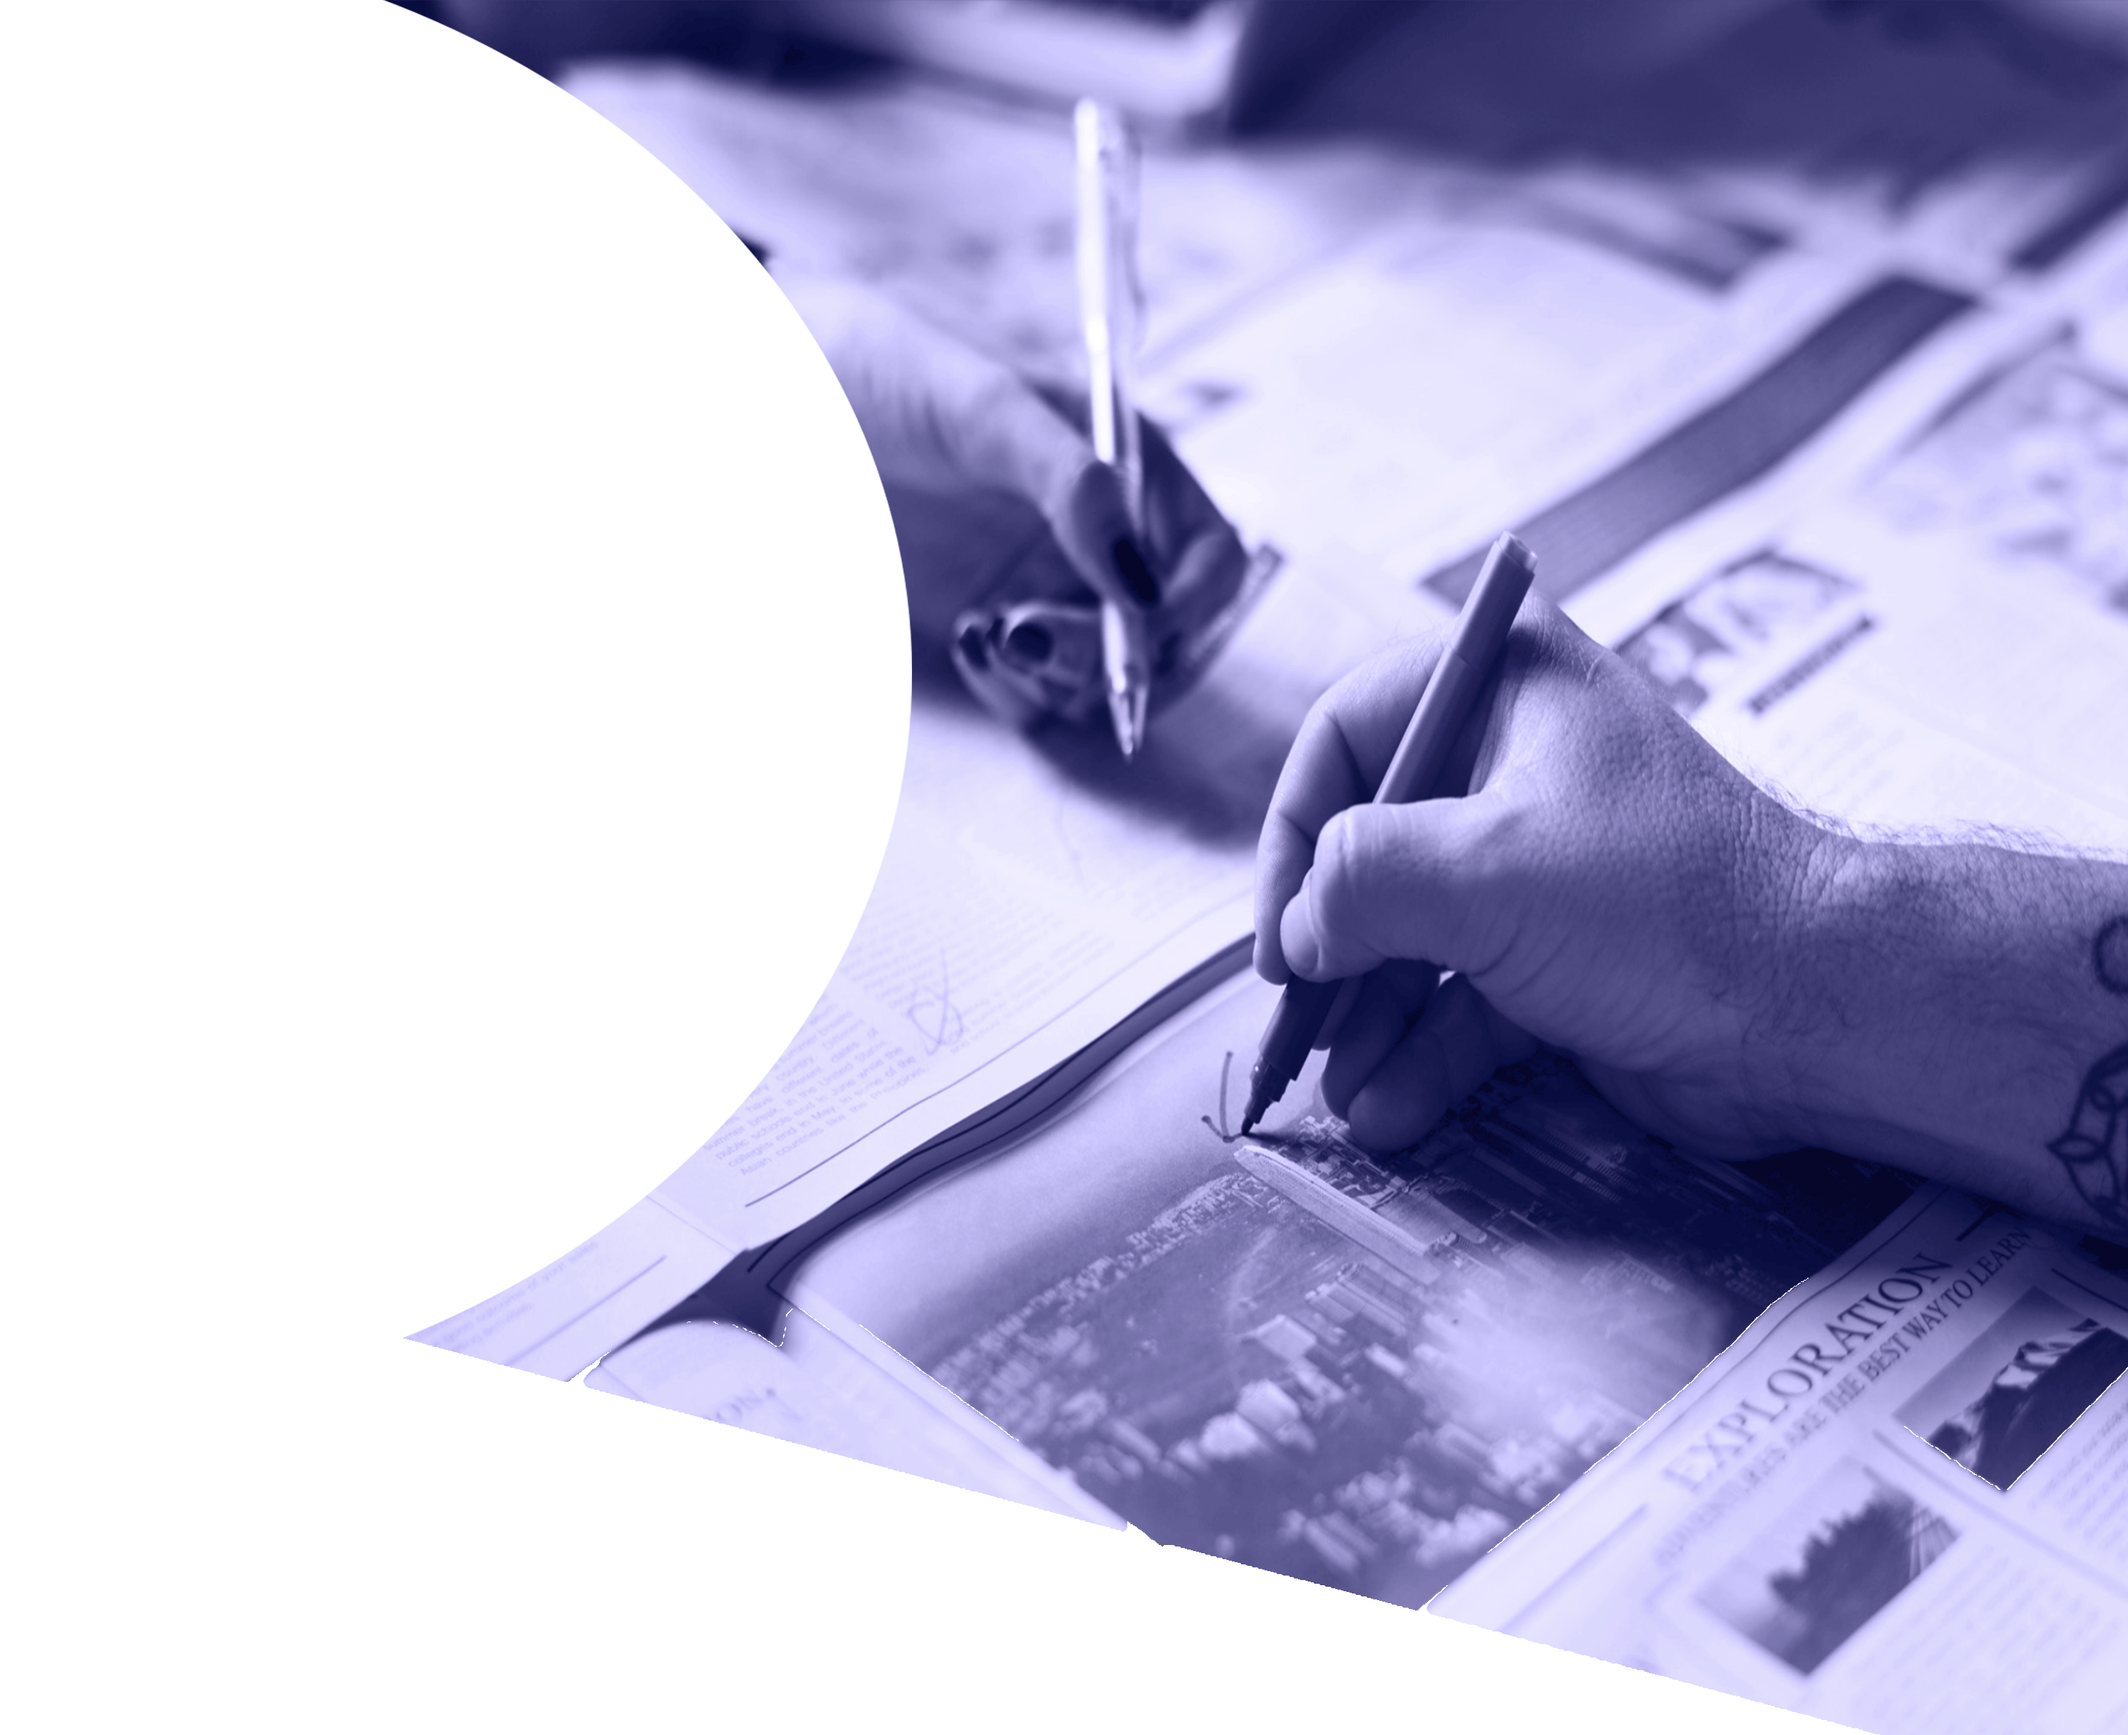
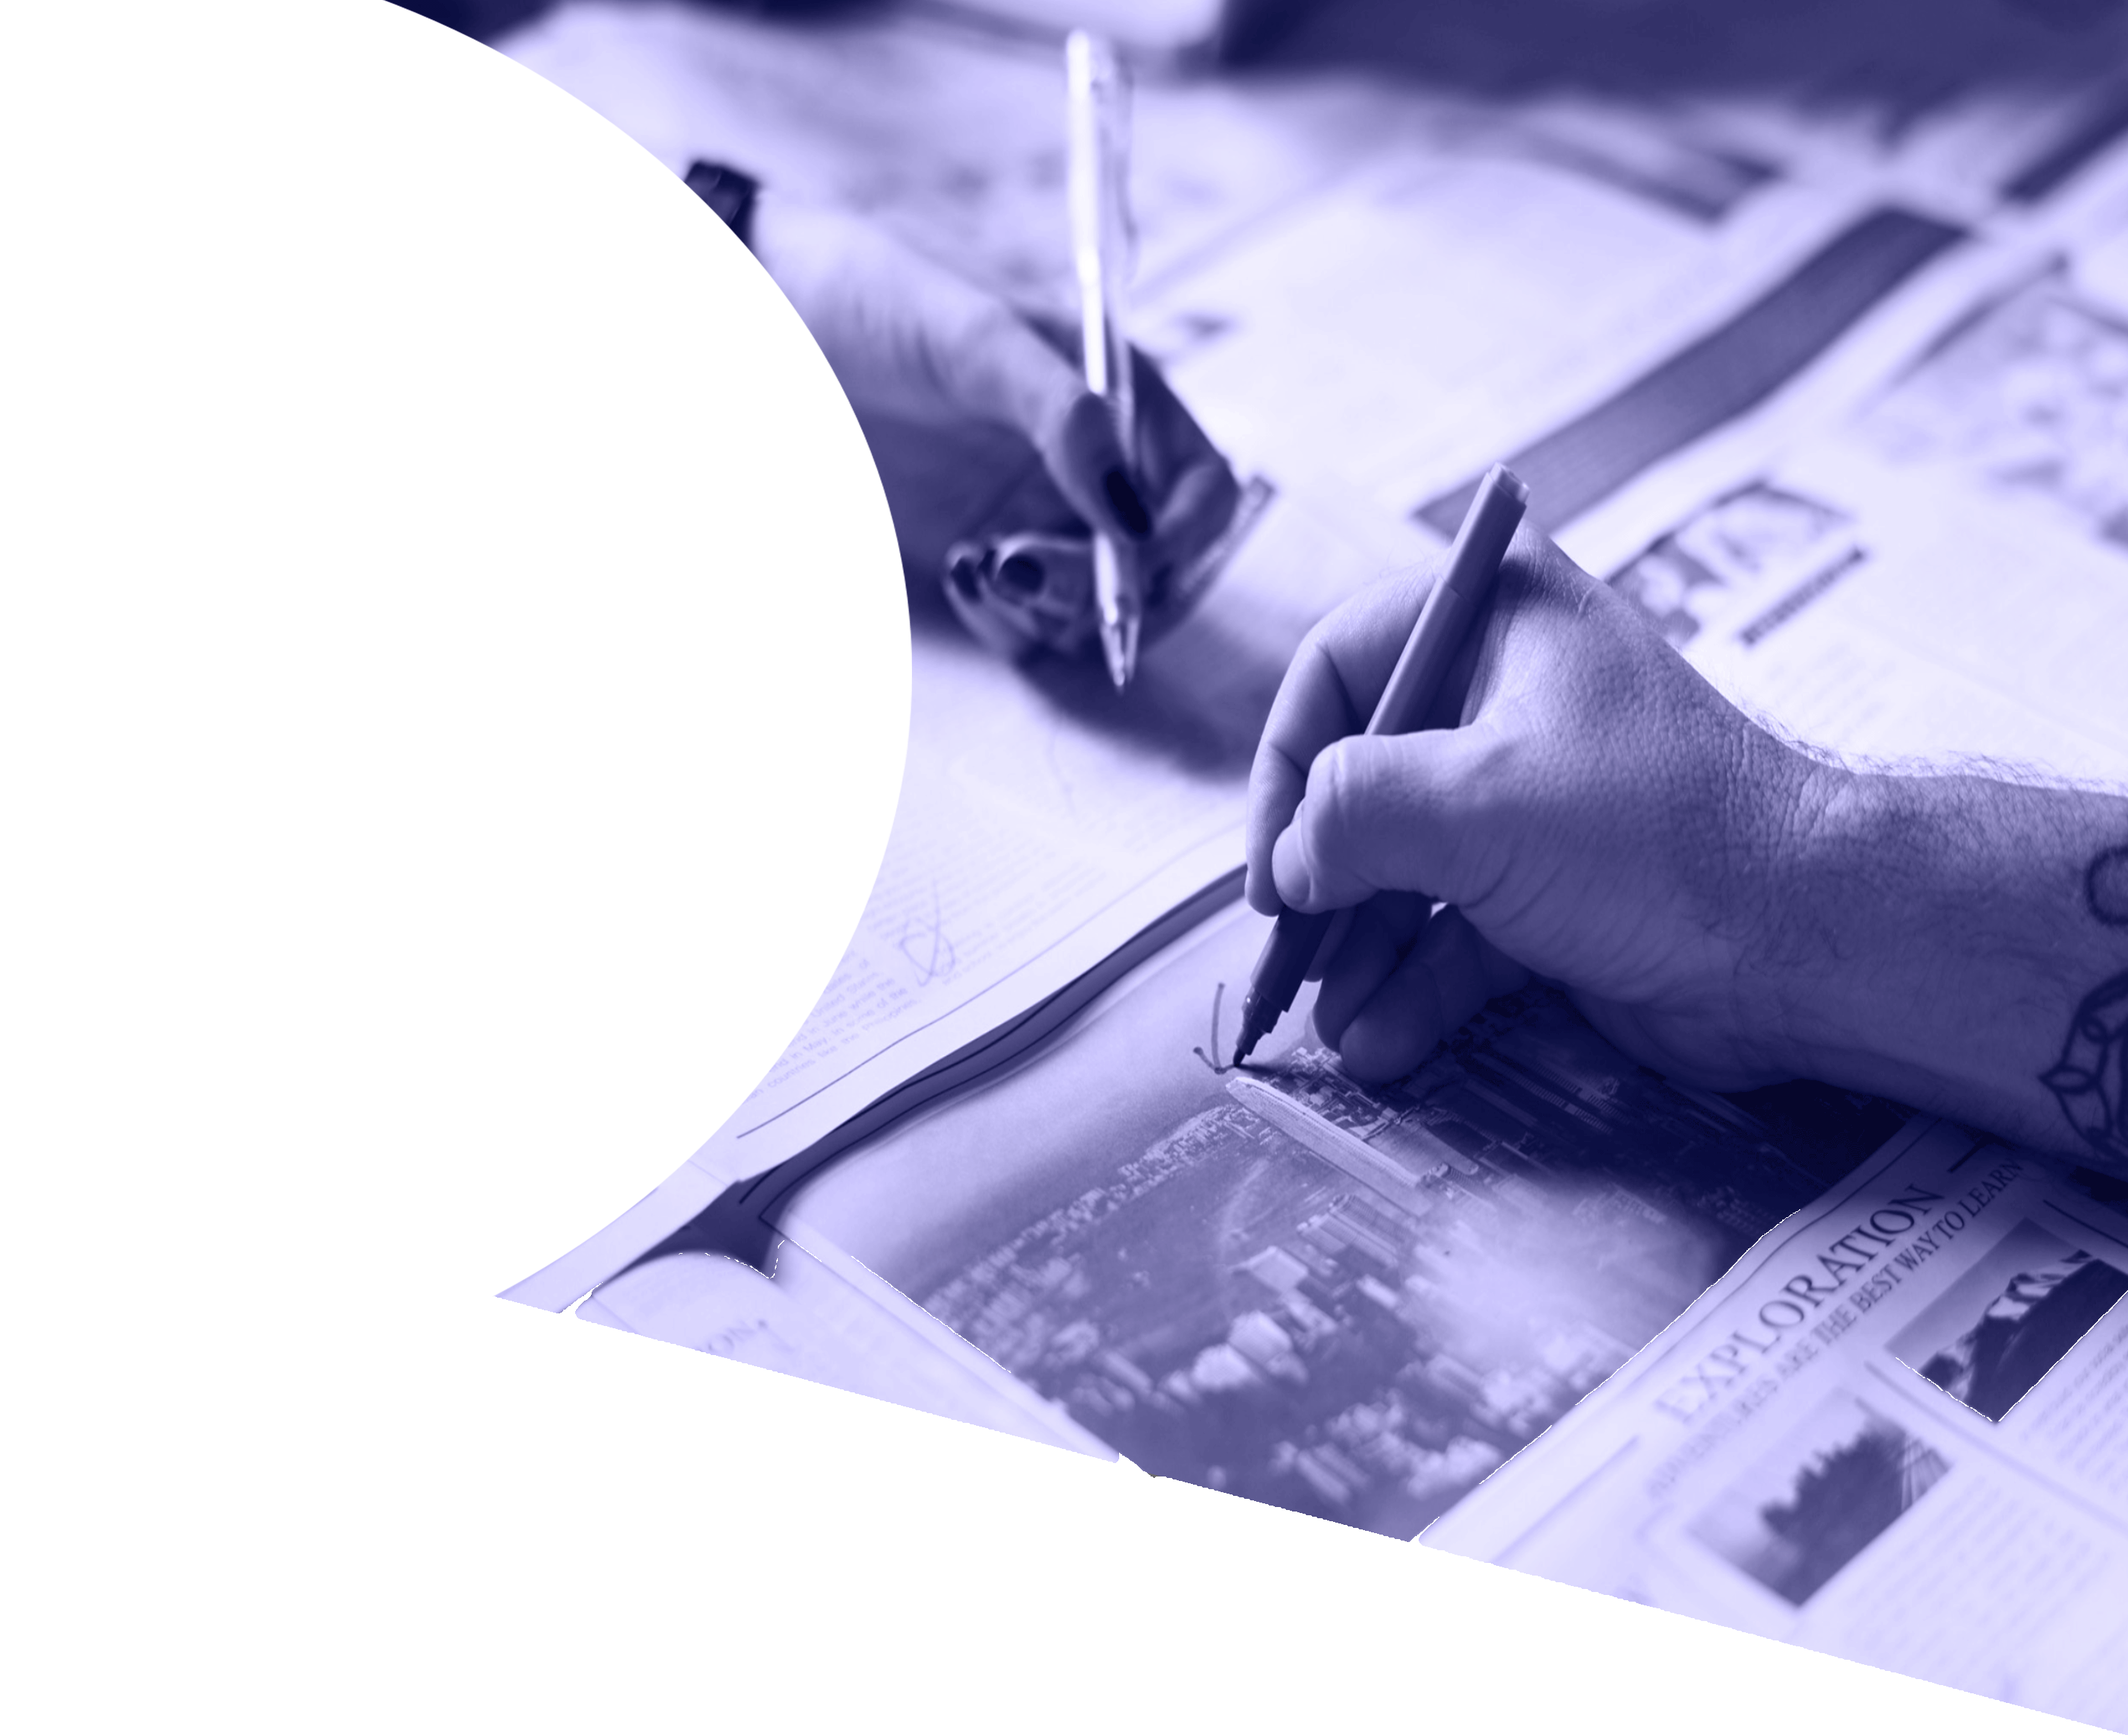
changed the format of the file

diff --git a/app/assets/stylesheets/master.scss b/app/assets/stylesheets/master.scss
@@ -65,7 +65,7 @@ body {
 .hw-top {
 	min-height: 1224px;
 	width:100vw;
-    background-image: url("hw-tracker-case-study-rectangle.png");
+    background-image: url("new-hw-top.png");
     background-size: cover;
     background-position: bottom;
   	position: relative; 
@@ -77,43 +77,6 @@ body {
 }
 
 
-
-.hand-with-oval {
-	width:100vw;
-	min-height:2329px; 
-  	mix-blend-mode: color;
-	background-image: url("need-crop.png"); 
-	background-size:cover;
-	background-position:bottom;
-	background-repeat: no-repeat;
-	position:relative;
-	bottom: 250px; 
-	z-index: -15; 
-}
-
-
-
-.oval {
-
-  width: 862px;
-  height: 1318px;
-  background-image: url("hw-bubble-oval.png"); 
-  object-fit: contain;
-  background-repeat: no-repeat;
-  -moz-transform: scaleX(-1);
-  -o-transform: scaleX(-1);
-  -webkit-transform: scaleX(-1);
-  transform: scaleX(-1);
-  filter: FlipH;
-  -ms-filter: “FlipH”;
-  position:relative; 
-  z-index: -13; 
-
-}
-
-#bubble {
-	height: 1618px; 
-}
 
 .hw-content {
 	
@@ -286,6 +249,19 @@ width: 530px;
 	background-color: #F1F5F8; 
 	width: 100%;
     height: 750px;
+}
+
+.target-user-hw {
+	background-color: #F1F5F8; 
+	width: 100%;
+    height: 911px;
+    min-height: 1500px; 
+    background-image: url("pleasework.png");
+    background-size: cover;
+    background-position: bottom;
+    background-repeat: no-repeat;
+    
+
 }
 
 
